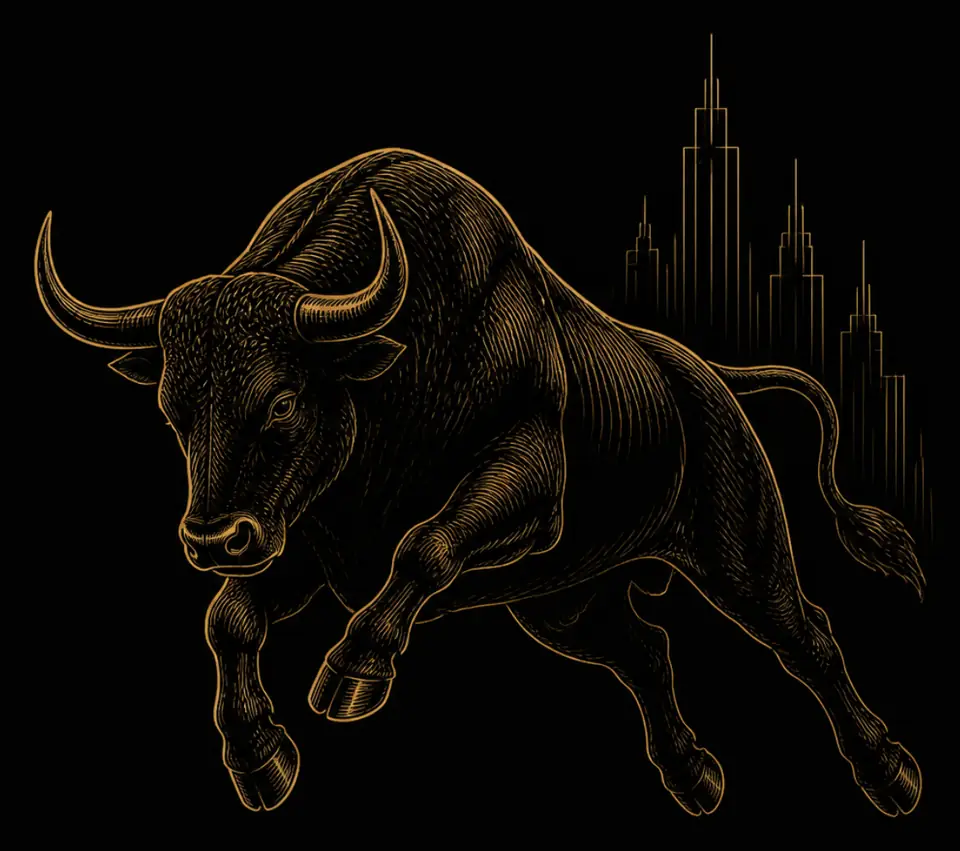
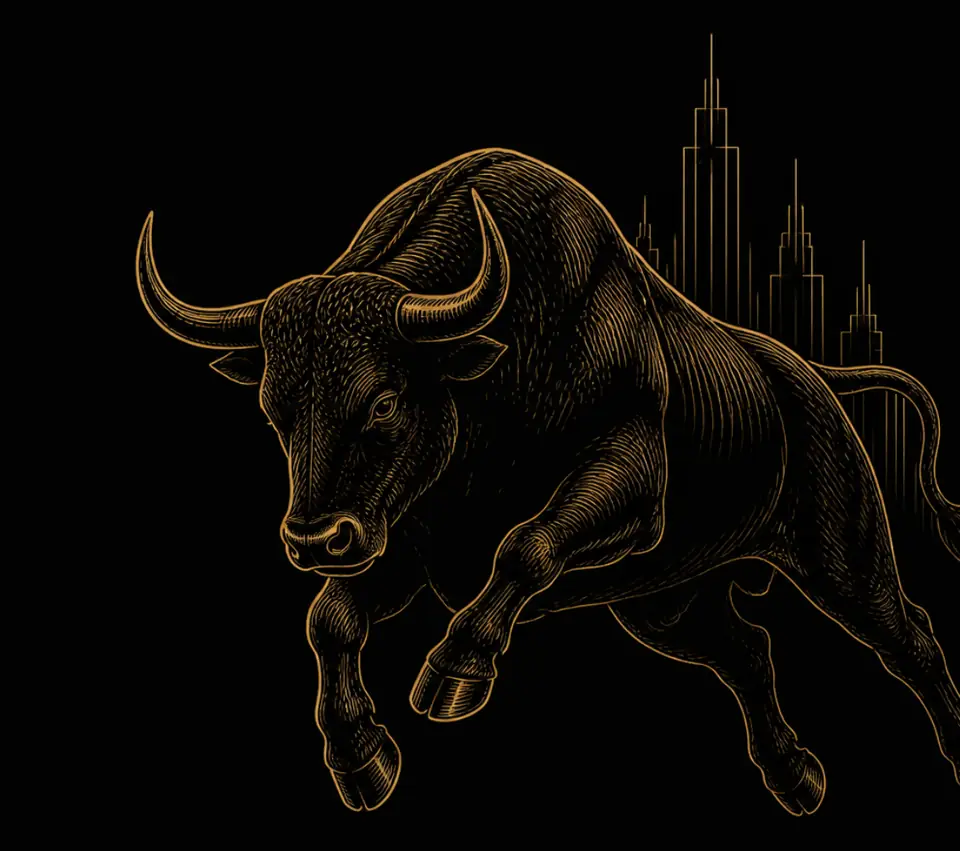
Move the hero bull right, keeping the towers in place
Separates the bull from the skyline in the engraving, shifts only the
bull 120px right and recomposes on the same crop, so the towers stay
put and the tail and hind legs are trimmed at the edge. Adds the script
used to do it. The LinkedIn banner now runs the bull to the edge.

diff --git a/scripts/social/linkedin-banner.html b/scripts/social/linkedin-banner.html
@@ -11,7 +11,7 @@
     -webkit-mask: linear-gradient(90deg, #000 55%, transparent 74%); mask: linear-gradient(90deg, #000 55%, transparent 74%); }
   /* The bull sits on a plain black field, so its image box blends in with no visible edge. */
   .banner { background: linear-gradient(90deg, #0B0B0C 70%, #000 78%); }
-  .bull { position: absolute; right: 24px; top: 4px; height: 352px; width: 397px; object-fit: contain; object-position: right center; filter: brightness(0.7);
+  .bull { position: absolute; right: 0; top: 4px; height: 352px; width: 397px; object-fit: contain; object-position: right center; filter: brightness(0.7);
     -webkit-mask: linear-gradient(90deg, transparent 0%, #000 45%); mask: linear-gradient(90deg, transparent 0%, #000 45%); }
   .shade { position: absolute; inset: 0; background: linear-gradient(90deg, #0B0B0C 0%, rgba(11,11,12,.92) 38%, rgba(11,11,12,.35) 70%, rgba(11,11,12,.15)); }
   /* LinkedIn's profile photo covers the lower-left corner, so the text sits right of it. */

diff --git a/scripts/social/shift-bull.py b/scripts/social/shift-bull.py
@@ -1,0 +1,23 @@
+# One-off image prep (needs Pillow): python3 scripts/social/shift-bull.py <canva-export.png> <out.png> <dx-px>
+# Kept so the hero bull can be re-shifted from the original Canva export.
+# Splits the towers from the bull, slides only the bull right, recomposes on the same crop.
+import sys
+from PIL import Image, ImageDraw, ImageFilter, ImageChops
+src, out, dx = sys.argv[1], sys.argv[2], int(sys.argv[3])
+im = Image.open(src).convert("RGB")
+W, H = im.size
+tower_zone = [(1470,40),(1900,40),(1900,650),(1858,650),(1800,606),(1766,592),(1754,558),(1749,503),(1736,468),(1708,449),(1664,441),(1620,439),(1578,417),(1528,391),(1470,372)]
+zone = Image.new("L", (W, H), 0); ImageDraw.Draw(zone).polygon(tower_zone, fill=255)
+black = Image.new("RGB", (W, H), (2, 2, 2))  # the drawing's own background, so no seam shows
+towers = Image.composite(im, black, zone)
+bull = Image.composite(black, im, zone)
+# Bull silhouette: close the linework, then fill everything not reachable from the outside.
+lines = bull.convert("L").point(lambda v: 255 if v > 25 else 0)
+closed = lines.filter(ImageFilter.MaxFilter(9)).filter(ImageFilter.MinFilter(9))
+fill = closed.copy(); ImageDraw.floodfill(fill, (5, 5), 128)
+sil = fill.point(lambda v: 0 if v == 128 else 255).filter(ImageFilter.MaxFilter(5))
+moved = Image.new("RGB", (W, H), (2, 2, 2)); moved.paste(bull, (dx, 0))
+mask = Image.new("L", (W, H), 0); mask.paste(sil, (dx, 0))
+comp = Image.composite(moved, towers, mask)
+comp.save(out)
+towers.save(out.replace(".png", "-towers.png")); sil.save(out.replace(".png", "-mask.png"))
